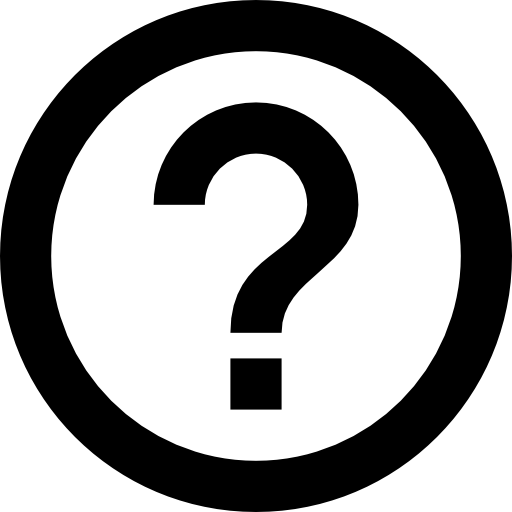
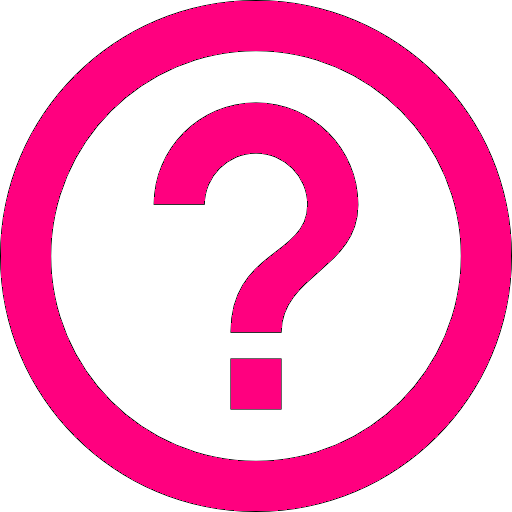
jailinfo

diff --git a/src/es/studium/main/java/DiceInfo.java b/src/es/studium/main/java/DiceInfo.java
@@ -2,10 +2,13 @@ package es.studium.main.java;
 
 import java.awt.BorderLayout;
 import java.awt.Color;
+import java.awt.Component;
 import java.awt.Dimension;
 import java.awt.Font;
 
 import javax.swing.BorderFactory;
+import javax.swing.Box;
+import javax.swing.BoxLayout;
 import javax.swing.ImageIcon;
 import javax.swing.JDialog;
 import javax.swing.JFrame;
@@ -17,42 +20,55 @@ public class DiceInfo extends JDialog
 {
 	private static final long serialVersionUID = 1L;
 
-	ImageIcon icoDices = new ImageIcon(getClass().getResource("/es/studium/main/resources/gif/dice-rolling.gif"));
-	JLabel lblIconDice = new JLabel(icoDices);
+	JLabel lblIconDice = new JLabel();
 	
-	JLabel oneDot = new JLabel(".", JLabel.CENTER);
-	JLabel twoDot = new JLabel("..", JLabel.CENTER);
-	JLabel threeDot = new JLabel("...", JLabel.CENTER);
-
-	JLabel resultDice = new JLabel("", JLabel.CENTER);
-	public DiceInfo(JFrame mainFrame, int resultRollingDice) {
+	JLabel resultDice1 = new JLabel("", JLabel.CENTER);
+	JLabel resultDice2 = new JLabel("", JLabel.CENTER);
+	
+	JLabel resultTotal = new JLabel("", JLabel.CENTER);
+	
+	public DiceInfo(JFrame mainFrame, int[] resultRollingDice, String playerName) {
 		super(mainFrame, "Rolling dices...", true);
 		
-		setSize(300, 420);
+		setSize(300, 300);
 		setLocationRelativeTo(null);
 		setResizable(false);
-		setLayout(new BorderLayout());
 		
-		JPanel panelTitle = new JPanel();
-		panelTitle.setPreferredSize(new Dimension(0, 50));
-		Border line = BorderFactory.createLineBorder(Color.BLACK, 1);
-		Border padding = BorderFactory.createEmptyBorder(10, 15, 10, 15);
-		panelTitle.setBorder(BorderFactory.createCompoundBorder(line, padding));
+		JPanel container = new JPanel();
 		
-		panelTitle.add(new JLabel("Throwing dices..."), JLabel.CENTER);
-		add(panelTitle, BorderLayout.NORTH);
+		container.setLayout(new BoxLayout(container, BoxLayout.Y_AXIS));
 		
-		oneDot.setVisible(false);
-		twoDot.setVisible(false);
-		threeDot.setVisible(false);
-		resultDice.setVisible(false);
+		container.add(Box.createRigidArea(new Dimension(0, 15)));
 		
-		add(lblIconDice,BorderLayout.CENTER);
-		add(oneDot);
-		add(twoDot);
-		add(threeDot);
-		resultDice.setFont(new Font("Arial", 1, 36));
-		add(resultDice);
+		Utilities.setIco(lblIconDice, "dices.png", 80, 80);
+		lblIconDice.setAlignmentX(Component.CENTER_ALIGNMENT);
+		container.add(lblIconDice);
+		
+		container.add(Box.createRigidArea(new Dimension(0, 15)));
+		
+		resultDice1.setText("First dice rolled: " + resultRollingDice[0]);
+		resultDice1.setFont(resultDice1.getFont().deriveFont(20f));
+		resultDice1.setAlignmentX(Component.CENTER_ALIGNMENT);
+		container.add(resultDice1);
+		
+		container.add(Box.createRigidArea(new Dimension(0, 15)));
+		
+		resultDice2.setText("Second dice rolled: " + resultRollingDice[1]);
+		resultDice2.setFont(resultDice2.getFont().deriveFont(20f));
+		resultDice2.setAlignmentX(Component.CENTER_ALIGNMENT);
+		container.add(resultDice2);
+
+		container.add(Box.createRigidArea(new Dimension(0, 15)));
+		
+		resultTotal.setText(playerName + " will move: " + (resultRollingDice[0] + resultRollingDice[1] + " steps."));
+		resultTotal.setFont(resultTotal.getFont().deriveFont(20f));
+		resultTotal.setAlignmentX(Component.CENTER_ALIGNMENT);
+
+		container.add(resultTotal);
+		
+		add(container);
+
+
 		
 		setVisible(true);
 	}

diff --git a/src/es/studium/main/java/JailInfo.java b/src/es/studium/main/java/JailInfo.java
@@ -1,0 +1,73 @@
+package es.studium.main.java;
+
+import java.awt.GridBagConstraints;
+import java.awt.GridBagLayout;
+import java.awt.Insets;
+
+import javax.swing.JButton;
+import javax.swing.JDialog;
+import javax.swing.JFrame;
+import javax.swing.JLabel;
+import javax.swing.JPanel;
+
+public class JailInfo extends JDialog
+{
+	private static final long serialVersionUID = 1L;
+	
+	JLabel lblInfo1 = new JLabel("", JLabel.CENTER);
+	JLabel lblInfo2 = new JLabel("", JLabel.CENTER);
+	JLabel lblInfo3 = new JLabel("", JLabel.CENTER);
+	
+	JButton btnPay = new JButton("Pay fee");
+	JButton btnCard = new JButton("Use card");
+	
+	GridBagLayout gridbag = new GridBagLayout();
+	
+	GridBagConstraints gbc = new GridBagConstraints();
+	
+	
+	
+	public JailInfo(JFrame mainFrame, boolean rolledDices, Player player) {
+		super(mainFrame, "Prison", true);
+		
+		setSize(300, 300);
+		setLocationRelativeTo(null);
+		setResizable(false);
+		
+		JPanel container = new JPanel();
+	
+		container.setLayout(gridbag);
+		
+		gbc.gridx = 0;
+		gbc.gridy = 0;
+		gbc.insets = new Insets(10, 10, 10, 10);
+		
+		gbc.gridwidth = 2;
+		lblInfo1.setText("You are in the JAIL");
+		container.add(lblInfo1, gbc);
+		
+		gbc.gridy = 1;
+		lblInfo2.setText("You can wait " + player.getJailTurns() + " turns.");
+		container.add(lblInfo2, gbc);
+		
+		gbc.gridy = 2;
+		lblInfo3.setText("Or choice one of the next options:");
+		container.add(lblInfo3, gbc);
+		gbc.gridwidth = 1;
+		
+		
+		gbc.gridx = 0;
+		gbc.gridy = 3;
+		container.add(btnPay, gbc);
+		
+		gbc.gridx = 1;
+		container.add(btnCard, gbc);
+		add(container);
+
+
+		
+		setVisible(true);
+	}
+
+
+}

diff --git a/src/es/studium/main/java/PanelHome.java b/src/es/studium/main/java/PanelHome.java
@@ -54,8 +54,7 @@ public class PanelHome extends BackgroundPanel{
 	
 	SpringLayout spring = new SpringLayout();
 	
-	Color colorBackground = new Color( 20, 20, 25);
-	Color colorForeground = new Color(255, 0, 127);
+	
 	
 	
 	public PanelHome() {
@@ -106,7 +105,8 @@ public class PanelHome extends BackgroundPanel{
 		panelSouth.setLayout(spring);
 		
 		btnOptions.setPreferredSize(btnSize);
-		btnOptions.setCursor(Cursor.getPredefinedCursor(Cursor.HAND_CURSOR));
+		btnOptions.setFont(getFont().deriveFont(18f));
+		setButtonStyle(btnOptions);
 		btnOptions.setHorizontalTextPosition(SwingConstants.CENTER);
 		btnOptions.setVerticalTextPosition(SwingConstants.BOTTOM);
 		panelSouth.add(btnOptions);
@@ -115,7 +115,7 @@ public class PanelHome extends BackgroundPanel{
         spring.putConstraint(SpringLayout.SOUTH, panelSouth, 10, SpringLayout.SOUTH, btnOptions);
 
         btnHelp.setPreferredSize(btnSize);
-        btnHelp.setCursor(Cursor.getPredefinedCursor(Cursor.HAND_CURSOR));
+        setButtonStyle(btnOptions);
         btnHelp.setHorizontalTextPosition(SwingConstants.CENTER);
 		btnHelp.setVerticalTextPosition(SwingConstants.BOTTOM);
 		panelSouth.add(btnHelp);
@@ -134,6 +134,7 @@ public class PanelHome extends BackgroundPanel{
 		
 
 	}
-
+	
+	
 }
 

diff --git a/src/es/studium/main/java/BackgroundPanel.java b/src/es/studium/main/java/BackgroundPanel.java
@@ -1,14 +1,21 @@
 package es.studium.main.java;
 
+import java.awt.Color;
+import java.awt.Cursor;
 import java.awt.Graphics;
 import java.awt.Image;
 import java.net.URL;
+
+import javax.swing.BorderFactory;
 import javax.swing.ImageIcon;
+import javax.swing.JButton;
 import javax.swing.JPanel;
 
 public class BackgroundPanel extends JPanel {
 	private static final long serialVersionUID = 1L;
 	private Image backgroundImage;
+	Color colorBackground = new Color( 20, 20, 25);
+	Color colorForeground = new Color(255, 0, 127);
 
 	public BackgroundPanel(String fileName) {
 		setBackgroundImage(fileName);
@@ -51,5 +58,13 @@ public class BackgroundPanel extends JPanel {
 			this.backgroundImage = null; 
 			this.repaint(); 
 		}
+	}
+	
+	public void setButtonStyle(JButton button) {
+		button.setBackground(colorBackground);
+		button.setForeground(colorForeground);
+		button.setCursor(Cursor.getPredefinedCursor(Cursor.HAND_CURSOR));
+		button.setFocusPainted(false);
+		button.setBorder(BorderFactory.createLineBorder(colorForeground, 2));
 	}
 }

diff --git a/src/es/studium/main/java/Controller.java b/src/es/studium/main/java/Controller.java
@@ -181,11 +181,12 @@ public class Controller implements ActionListener, MouseListener{
 
 	private int rollDices()
 	{
-		DiceInfo dialog = new DiceInfo(v.getFrame(),10);
-		int sumDices = m.throwingDices();
-		dialog.resultDice.setText(""+ sumDices);
-		dialog.resultDice.setVisible(true);
-		return sumDices;
+		int[] sumDices = m.throwingDices();
+		int dice1 = sumDices[0];
+		int dice2 = sumDices[1];
+		DiceInfo dialog = new DiceInfo(v.getFrame(), sumDices, currentPlayer.getName());
+	
+		return dice1+dice2;
 	}
 
 	private void movePlayer() {

diff --git a/src/es/studium/main/java/Model.java b/src/es/studium/main/java/Model.java
@@ -36,12 +36,12 @@ public class Model {
 		return this.daoSquares.obtainSquares();
 	}
 	
-	public int throwingDices()
+	public int[] throwingDices()
 	{
 		Random randomDices = new Random();
 		int diceOne = randomDices.nextInt(6) + 1;
 		int diceTwo = randomDices.nextInt(6) + 1;
-		return diceOne + diceTwo;
+		return new int[] {diceOne, diceTwo};
 	}
 
 }

diff --git a/src/es/studium/main/java/DialogsInfo.java b/src/es/studium/main/java/DialogsInfo.java
@@ -31,8 +31,8 @@ public class DialogsInfo {
 		dialog.setVisible(true);
 	}
 
-	public void showDiceInfo(int result) {
-		DiceInfo dialog = new DiceInfo(mainFrame, result);
+	public void showDiceInfo(int[] result, String playerName) {
+		DiceInfo dialog = new DiceInfo(mainFrame, result, playerName);
 		dialog.setVisible(true);
 	}
 }

diff --git a/src/es/studium/main/java/View.java b/src/es/studium/main/java/View.java
@@ -110,9 +110,9 @@ public class View {
 	
 	public void showDialog(String message) {
 		lblDialog.setText(message);
-		dialog.setVisible(true);
-		dialog.pack();
 		dialog.revalidate();
+		dialog.pack();
+		dialog.setVisible(true);
 	}
 }
 
